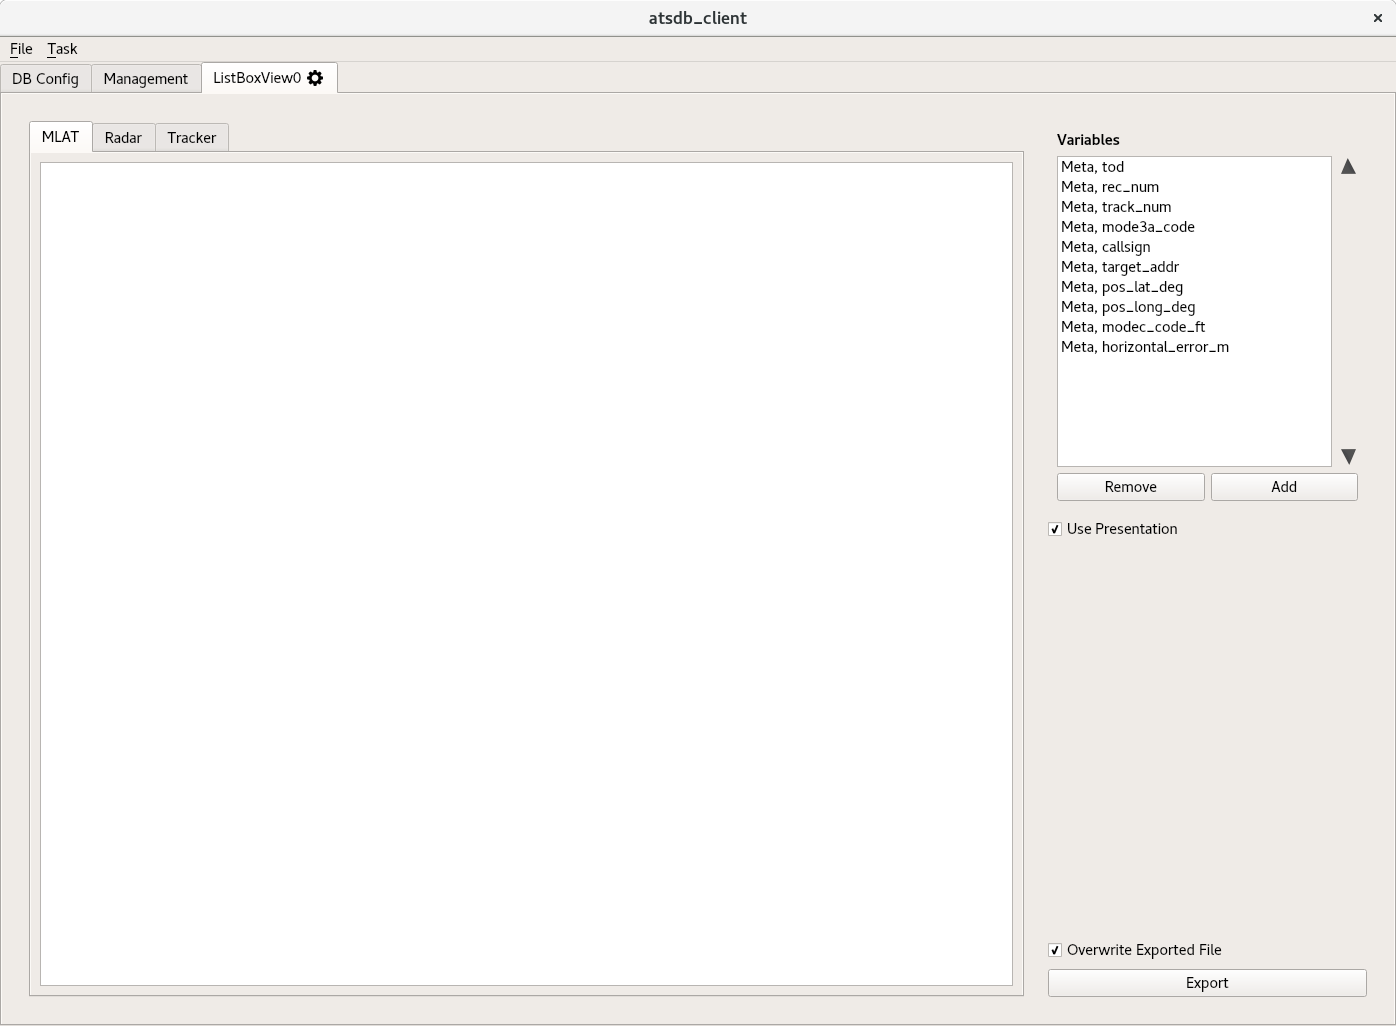
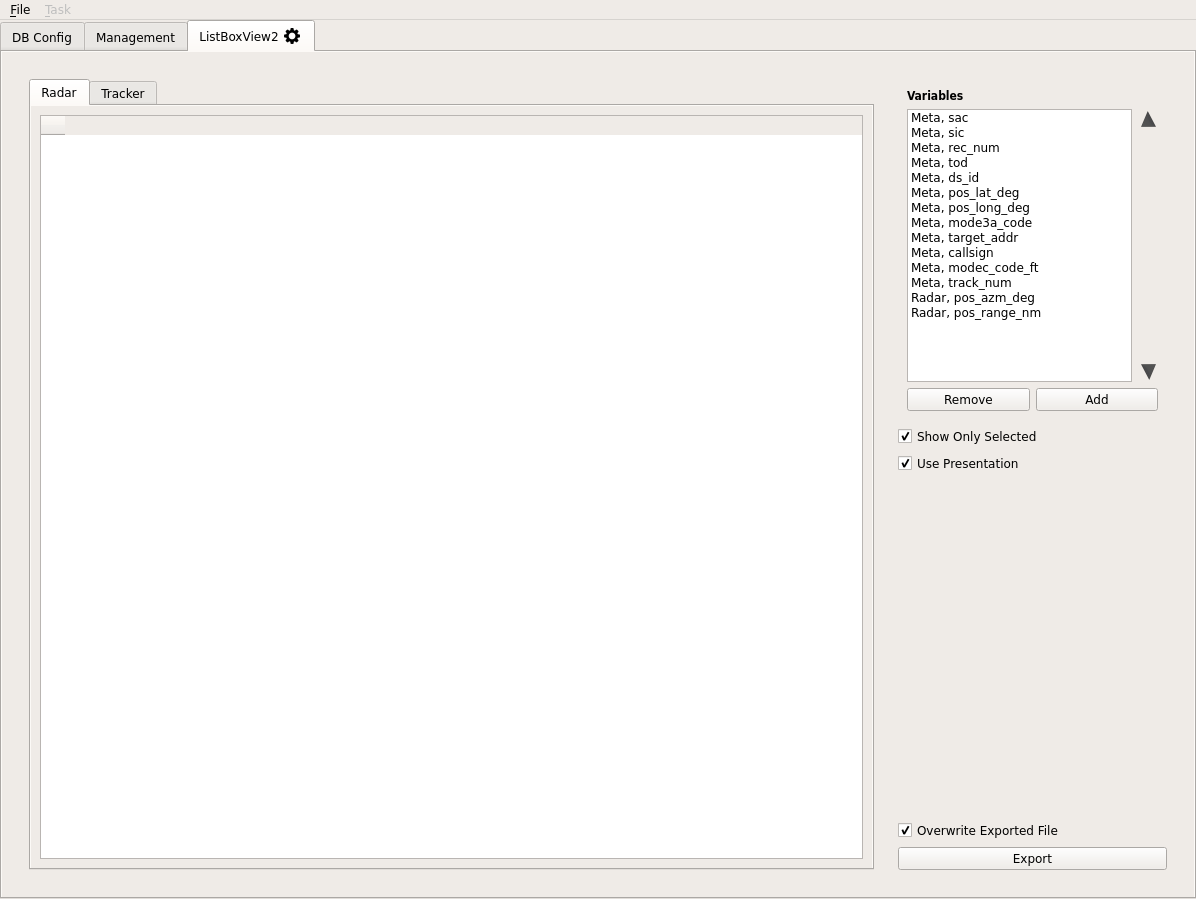
doc updated

diff --git a/doc/user_manual/osg_view.tex b/doc/user_manual/osg_view.tex
@@ -39,6 +39,7 @@ The first 3 symbols switch between the mouse action modes, the others provide sp
     \includegraphics[width=0.5cm]{../../data/icons/navigate.png} & Navigate & Allows navigation of the map only \\ \hline
     \includegraphics[width=0.5cm]{../../data/icons/label_action.png} & Label & Allows labeling, group menu and nagivation of the map \\ \hline
     \includegraphics[width=0.5cm]{../../data/icons/measure_action.png} & Measure & Allows map distance measuring and navigation of the map \\ \hline
+    \includegraphics[width=0.5cm]{../../data/icons/select_action.png} & Select & Allows data selection \& de-selection \\ \hline
   \end{tabular}
   \caption{Toolbar mouse action modes}
 \end{table}
@@ -55,7 +56,9 @@ The others provide general display modes or operations.
     \includegraphics[width=0.5cm]{../../data/icons/label_color.png} & Edit Label Color & Set background color for all labels \\ \hline
     \includegraphics[width=0.5cm]{../../data/icons/label_edit.png} & Edit Label Content & Edit the content for labels \\ \hline
     \includegraphics[width=0.5cm]{../../data/icons/label_delete.png} & Deletes All Labels & Deletes all existing labels \\ \hline
-    \includegraphics[width=0.5cm]{../../data/icons/measurement_delete.png} & Deletes All Measurements & Deletes all existing measurements \\ \hline
+    \includegraphics[width=0.5cm]{../../data/icons/measurement_delete.png} & Deletes All Measurements & Deletes all existing measurements \\ \hline \includegraphics[width=0.5cm]{../../data/icons/select_color.png} & Edit Selection Color & Set selection color \\ \hline
+    \includegraphics[width=0.5cm]{../../data/icons/select_invert.png} & Invert Selection & Selects all de-selected \& vice versa \\ \hline
+    \includegraphics[width=0.5cm]{../../data/icons/select_delete.png} & Delete Selection & De-selects all target reports \\ \hline
   \end{tabular}
   \caption{Toolbar operations}
 \end{table}
@@ -112,10 +115,22 @@ The following operations exist, depending on the mouse action modes:
     \hline
     \textbf{Mouse Action} & \textbf{Key Action} &  \textbf{Description} \\ \hline
     LMB click & - & Start/end measurement \\ \hline
-    LMB click \& drag & - & Start/end measurement \& traverse map \\ \hline
+    LMB click \& drag & - & Traverse map \\ \hline
     ... & ... & Other operations are the same as in Navigate mode \\ \hline  
     \end{tabular}
   \caption{Map widget view operations in Measure mode}
+\end{table}
+
+\begin{table}[H]
+  \center
+  \begin{tabular}{ | l | l | l |}
+    \hline
+    \textbf{Mouse Action} & \textbf{Key Action} &  \textbf{Description} \\ \hline
+    LMB click & - & Start/end selection box \\ \hline
+    LMB click \& drag & - & Traverse map \\ \hline
+    ... & ... & Other operations are the same as in Navigate mode \\ \hline  
+    \end{tabular}
+  \caption{Map widget view operations in Select mode}
 \end{table}
 
 Further operations are defined in section Map Widget Data Operations. \\
@@ -134,7 +149,8 @@ In the lower-left corner, the data status information is given:
  \item Time End: last timestamp in the data, in HH:MM:SS
  \item Loaded: Number of loaded target reports (from the database)
  \item Skipped: Number of not-drawn target reports
- \item Loaded: Number of drawn target reports
+ \item Drawn: Number of drawn target reports
+ \item Selected: Number of selected target reports
 \end{itemize}
 
 In the upper-right corner, the ATSDB version is shown. In the lower-right corner, the current coordinates (map coordinates under the mouse cursor) are shown.
@@ -278,31 +294,39 @@ The easiest example is the 'minimal\_new.earth' file, which uses an ESRI shapefi
   
     <options>
         <lighting>false</lighting>
-         <terrain color="#101010ff"/>
+        <terrain>
+            <min_tile_range_factor>8</min_tile_range_factor>
+            <color>#000000FF</color>
+        </terrain>
+      
     </options>
 
-     <feature_model name="world_boundaries">
-        <features name="wolrd" driver="ogr">
-            <url>shapefiles/TM_WORLD_BORDERS-0.3.shp</url>
-            <build_spatial_index>true</build_spatial_index>
-            <ogr_driver>ESRI Shapefile</ogr_driver>
-            <convert type="line"/>
-        </features>        
-
-        <layout tile_size="500000">
+    <feature_source name="world-data" driver="ogr">
+        <url>shapefiles/TM_WORLD_BORDERS-0.3.shp</url>
+        <convert type="line"/>
+    </feature_source>
+    
+    <feature_model name="world_boundaries" feature_source="world-data">
+        
+        <layout tile_size="500000"  paged="true">
             <level max_range="1e10"/>
         </layout>
-
+                
         <styles>
             <style type="text/css">
-                states {
-                   stroke:          #ffff00; 
-                   stroke-width:    1px;
-                   render-depth-test: false;
-                }                    
+                world {
+                   stroke:                   #ffff00;
+                   stroke-width:             2px;
+                   stroke-tessellation-size: 1km;
+                   render-lighting:          false;
+                   altitude-clamping:        none;
+                }            
             </style>
-        </styles>        
+        </styles>
+        
     </feature_model>
+ 
+
 </map>
 \end{verbatim}
 
@@ -316,27 +340,29 @@ The world background colour is set using the 'terrain color' tag. The name of th
          <terrain color="#101010ff"/>
     </options>
 
-     <feature_model name="world_boundaries">
-        <features name="wolrd" driver="ogr">
-            <url>shapefiles/TM_WORLD_BORDERS-0.3.shp</url>
-            <build_spatial_index>true</build_spatial_index>
-            <ogr_driver>ESRI Shapefile</ogr_driver>
-            <convert type="line"/>
-        </features>        
-
-        <layout tile_size="500000">
+    <feature_source name="world-data" driver="ogr">
+        <url>shapefiles/TM_WORLD_BORDERS-0.3.shp</url>
+        <convert type="line"/>
+    </feature_source>
+    
+    <feature_model name="world_boundaries" feature_source="world-data">
+        
+        <layout tile_size="500000"  paged="true">
             <level max_range="1e10"/>
         </layout>
-
+                
         <styles>
             <style type="text/css">
-                states {
-                   stroke:          #ffff00; 
-                   stroke-width:    1px;
-                   render-depth-test: false;
-                }                    
+                world {
+                   stroke:                   #ffff00;
+                   stroke-width:             2px;
+                   stroke-tessellation-size: 1km;
+                   render-lighting:          false;
+                   altitude-clamping:        none;
+                }            
             </style>
-        </styles>        
+        </styles>
+        
     </feature_model>
   
     <feature_model name="doi">
@@ -520,7 +546,9 @@ The data context menu allows the following operations:
 
 \subsubsection{Distance Measurement}
 
-Distance meansurements can be made, when the Measure mode is active. Simply do a LMB click on a position on the map to start the measurement.
+Distance measurements can be made when the Measure mode is active. If 'Use height' is not checked, measurements are done as follows:
+
+Simply do a LMB click on a target report or a position on the map to start the measurement.
 
 \begin{figure}[H]
     \hspace*{-2cm}
@@ -544,7 +572,17 @@ Then do a second LMB click on the map on a point of interest to finish the measu
   \caption{OSG View measurement done}
 \end{figure}
 
-The measurement is shown in the Layers tab, and is identified using a number. The visibility for each label can be set using the checkbox, and the layer menu (using the \includegraphics[width=0.5cm]{../../data/icons/measure.png}) symbol) allows the following operations:
+If 'Use height' is checked, measurements are calculated in the same way as previously (ground distance), but for each target report with height a connecting line to the respective ground position is displayed. \\
+
+For a measurement between two target reports with height information, the measurement will be displayed as follows:
+
+\begin{figure}[H]
+    \hspace*{-2cm}
+    \includegraphics[width=18cm,frame]{../screenshots/osgview_measure3d.png}
+  \caption{OSG View measurement with height information}
+\end{figure}
+
+The measurements is shown in the Layers tab, and is identified using a number. The visibility for each label can be set using the checkbox, and the layer menu (using the \includegraphics[width=0.5cm]{../../data/icons/measure.png}) symbol) allows the following operations:
 
 \begin{itemize}
  \item Copy text: Copies the text as well as the point information to the clipboard to be pasted in other applications
@@ -552,6 +590,58 @@ The measurement is shown in the Layers tab, and is identified using a number. Th
 \end{itemize}
 
 Please note the the number label background color can be set as with all other labels. 
+
+\subsubsection{Selection}
+
+Target reports can be selected when the Select mode is active. If 'Use height' is not checked, measurements are done as follows:
+
+Simply do a LMB click on a target report or a position on the map to start the selection. Move the mouse to another location to create a red selection rectangle.
+
+\begin{figure}[H]
+    \hspace*{-2cm}
+    \includegraphics[width=18cm,frame]{../screenshots/osgview_select1.png}
+  \caption{OSG View selection}
+\end{figure}
+
+With a second LMB click the selection is finalized and all target reports in the created latitude/longitude rectangle are selection. This is shown by a different color (yellow by default), and the 'Selected' counter in the lower-left corner shows the current selection size.
+
+\begin{figure}[H]
+    \hspace*{-2cm}
+    \includegraphics[width=18cm,frame]{../screenshots/osgview_select2.png}
+  \caption{OSG View selection done}
+\end{figure}
+
+If another selection is done, the previous one is cleared by default. If another selection shown be \textit{added} to the current one, hold down the control key when doing the second LMB click.
+
+\begin{figure}[H]
+    \hspace*{-2cm}
+    \includegraphics[width=18cm,frame]{../screenshots/osgview_select_add1.png}
+  \caption{OSG View selection with adding}
+\end{figure}
+
+This adds the target reports within the new red rectangle to the current selecion.
+
+\begin{figure}[H]
+    \hspace*{-2cm}
+    \includegraphics[width=18cm,frame]{../screenshots/osgview_select_add2.png}
+  \caption{OSG View selection with adding done}
+\end{figure}
+
+If 'Use height' is checked, selection can be done with height information, which is shown as a box. Simply do a LMB click on the map for a target report, and move the cursor to another target report or map location. If both locations have zero height (map location or no height information in target report), again a rectangle is shown. If one or both locations have a non-zero height, a 3D box is displayed.
+
+\begin{figure}[H]
+    \hspace*{-2cm}
+    \includegraphics[width=18cm,frame]{../screenshots/osgview_select3d.png}
+  \caption{OSG View selection with height}
+\end{figure}
+
+
+\begin{figure}[H]
+    \hspace*{-2cm}
+    \includegraphics[width=18cm,frame]{../screenshots/osgview_select3d_2.png}
+  \caption{OSG View selection with height done}
+\end{figure}
+
 
 \subsubsection{Time Filter}
 
@@ -630,6 +720,18 @@ All existing labels can be deleted using the symbol \includegraphics[width=0.5cm
 \subsubsection{Measurement Deletion}
 
 All existing measurements can be deleted using the symbol \includegraphics[width=0.5cm]{../../data/icons/measurement_delete.png} in the toolbar.
+
+\subsubsection{Selection Color}
+
+The color for selection highlighting can be configured using the symbol \includegraphics[width=0.5cm]{../../data/icons/select_color.png} in the toolbar.
+
+\subsubsection{Selection Invert}
+
+The selection can be inverted using the symbol \includegraphics[width=0.5cm]{../../data/icons/select_invert.png} in the toolbar.
+
+\subsubsection{Selection Deletion}
+
+The selection can be erased using the symbol \includegraphics[width=0.5cm]{../../data/icons/select_delete.png} in the toolbar.
 
 \subsubsection{Group Variable}
 

diff --git a/doc/user_manual/listbox_view.tex b/doc/user_manual/listbox_view.tex
@@ -22,7 +22,9 @@ To limit, order based on a variable or load the dataset, the mechanism described
 
 Once updated, the tables are filled with text representing the values of the DBO variables.  If a value is undefined its cell is empy. \\
 
-Please \textbf{note} that since some variable might only exist in some DBOs, the number of columns for different DBOs may differ.
+Please \textbf{note} that since some variable might only exist in some DBOs, the number of columns for different DBOs may differ. \\
+
+In the first column in the tables, checkboxes are shown, indicating whether that target report is currently selected. Selection may be changed by selecting/de-selecting the respective checkboxes or in other views (cross-selection).
 
 \subsubsection{Variable List}
 All DBO variables which are loaded from the database are shown in the 'Variables' list. This list is ordered,
@@ -31,8 +33,12 @@ and using the up/down triangle buttons.
 When pressing the 'Remove' button, a selected variable is removed.  Pressing the 'Add' button allows
 appending a variable to the list using a context-menu.
 
+\subsubsection{Show Only Selected}
+When this checkbox is checked, only target reports selected in other views are shown. If this is active, de-selecting a target report removes it from the shown data.
+
 \subsubsection{Use Presentation}
 When this checkbox is checked, the so called presentation mode is used. In the database, the variables might have different units or a data representation which is not easy to read. For this purpose, a presentation mode was introduced to e.g. show a Mode A code as octal, or a Time of Day not in seconds since midnight but in HH::MM:SS.SS format. When the ''Use Presentation`` checkbox is not checked, the original database values are presented (and exported).
+
 
 \subsubsection{Exporting}
 \label{sec:exporting}

diff --git a/doc/user_manual/introduction.tex b/doc/user_manual/introduction.tex
@@ -17,6 +17,7 @@ The \textbf{A}ir \textbf{T}raffic \textbf{S}urveillance \textbf{D}ata\textbf{B}a
 \item High performance processing, low memory footprint
 \item Utilization of application during loading procedure
 \item Views for data inspection
+\item Cross-view data selection and inspection
 \item Simple custom filter generation
 \item Supported Database Objects
 \begin{itemize}  
@@ -41,7 +42,7 @@ The following features currently exist:
 \item High-performance display based on OpenSceneGraph
 \item Customizable map/terrain display based on osgEarth
 \item Customizable display of Database Objects
-\item Selection and labeling
+\item Highlighting and labeling
 \item Relatively low memory footprint (e.g. 17 million target reports in 4.5 GB RAM)
 \end{itemize}
 
@@ -74,7 +75,7 @@ The following libraries are used in the project (list not exhaustive):
 \item nlohmann::json
 \end{itemize}
 
-Many thanks to the developers of these. Your work is awesome.
+Many thanks to the developers of those. Your work is awesome.
 
 \subsection{Contributors}
 
